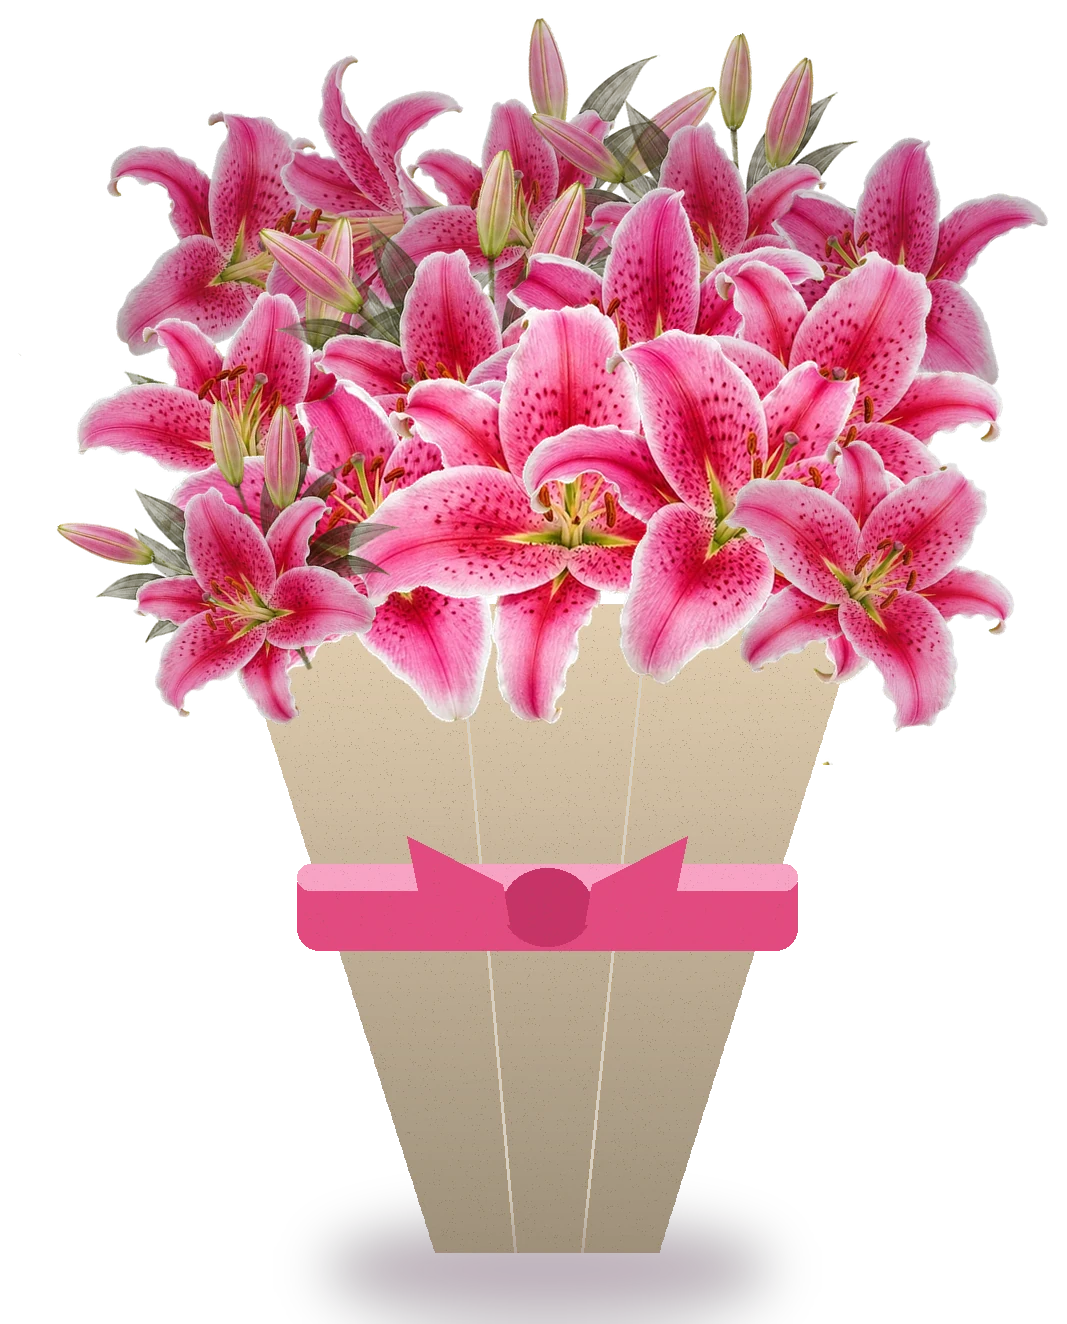
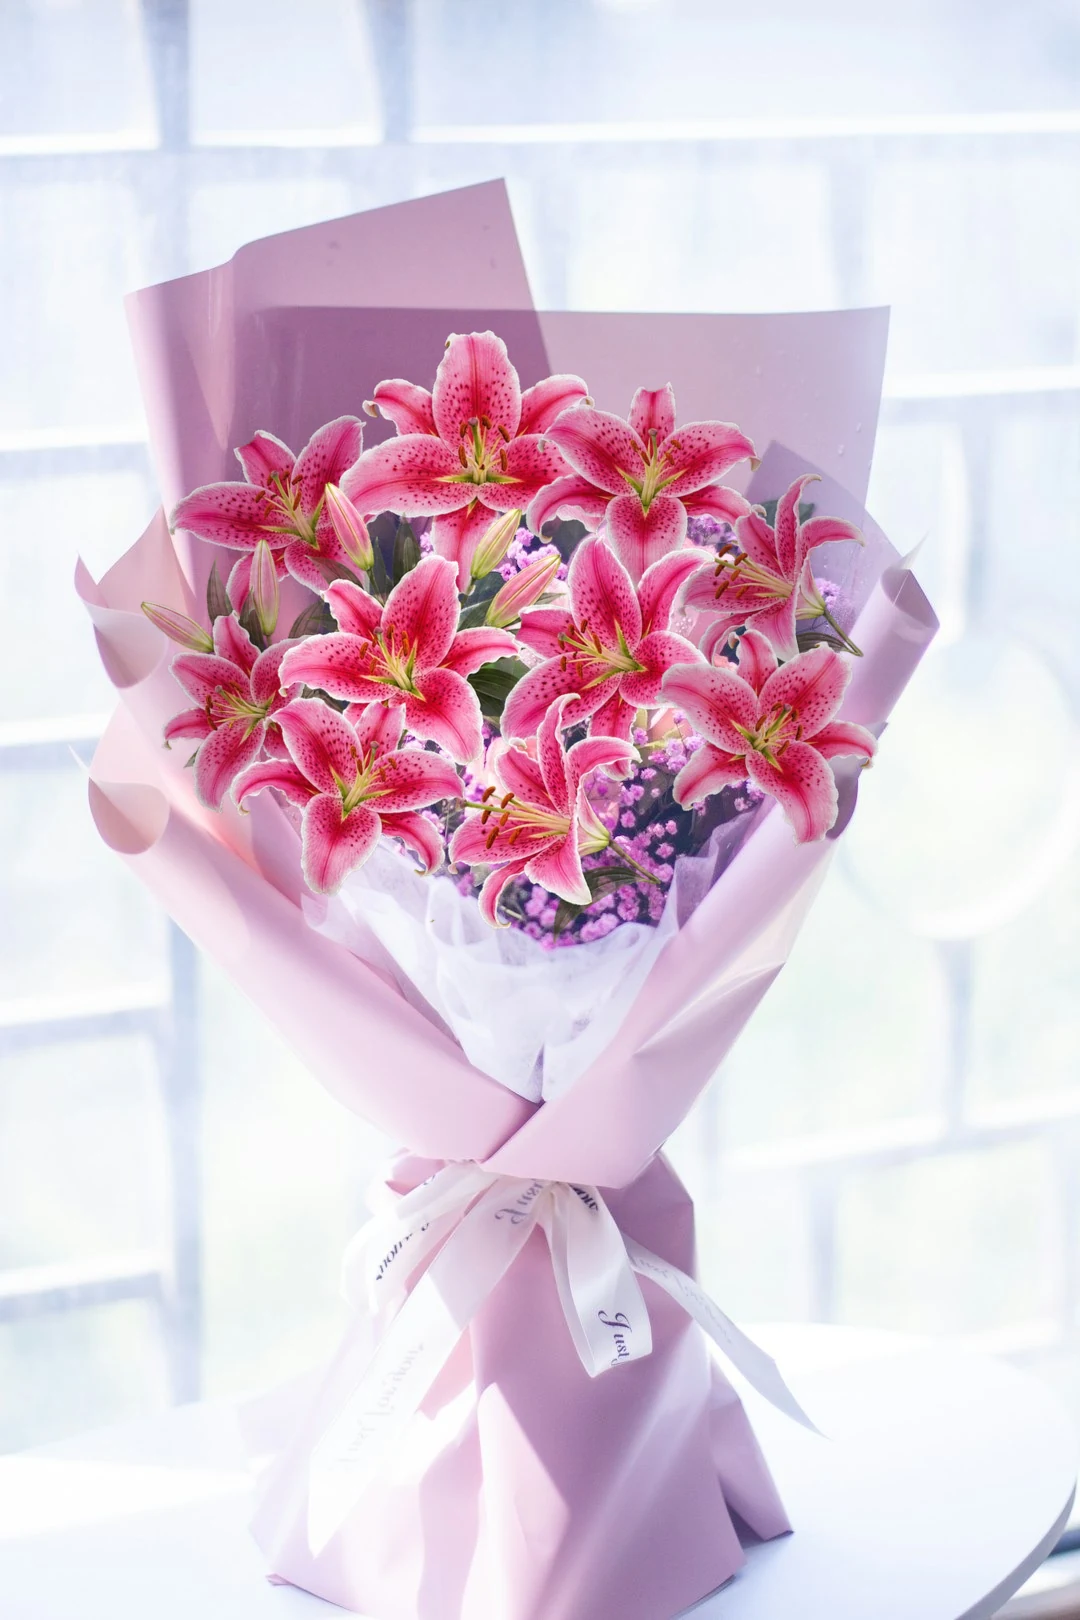
The arrival bouquet is a real bouquet now, not a bunch of flower heads
The previous attempt composed lily heads into a dome over a drawn paper
cone. It was a clump of flowers, not a bouquet: no greenery, no buds, no
front-to-back depth, and a flat vector wrap sitting under photographic
blooms.

Searched Unsplash properly this time and looked at the results rather than
the alt text. It has plenty of lily photographs and essentially no wrapped
lily bouquet - lilies there are close-ups and vases. So the hard part comes
from a real photograph of a florist's bouquet (3h5kKCsa9us by Amelia Cui,
Unsplash Licence) for its paper wrap, ribbon, baby's breath and window
light, and stargazer lily heads are set into the bloom area in place of its
roses, colour-matched to the photo's cool light so they do not read as
pasted on. The wrap and the greenery are real; the flowers are her flower.

Base photo is fetched and cached by the build script rather than committed,
and credited in ATTRIBUTION.md.

diff --git a/miss-you-app/sw.js b/miss-you-app/sw.js
@@ -1,4 +1,4 @@
-const CACHE_NAME = "moonpie-miss-you-v120";
+const CACHE_NAME = "moonpie-miss-you-v121";
 const ASSETS = [
   "./",
   "./index.html",

diff --git a/tools/build_lily_bouquet.py b/tools/build_lily_bouquet.py
@@ -1,163 +1,121 @@
 # -*- coding: utf-8 -*-
 """
-Build the arrival bouquet out of lilies only.
+Build the arrival bouquet: real photograph, lilies set into it.
 
-The "Flowers arrived" screen was showing bouquet-cutout.webp, which is a
-mixed bouquet with roses in it. Her flower is the stargazer lily, so this
-composes a big lily-only bouquet from the six transparent lily cut-outs:
-a wrapped one for the tap-to-untie, and an open one for the reveal.
+Two earlier attempts were wrong. The first used bouquet-cutout.webp, which is
+a mixed arrangement with roses in it, and her flower is the stargazer lily.
+The second composed lily heads into a dome over a drawn paper cone, which
+read as a clump of flower heads rather than a bouquet: no greenery, no buds,
+no varied depth, and a flat vector wrap next to photographic blooms.
+
+Unsplash has plenty of lily photographs and essentially no wrapped lily
+bouquet, so this takes the hard part from a real photograph - an actual
+florist's bouquet with its paper wrap, ribbon, baby's breath and lighting -
+and sets stargazer lily heads into the bloom area where the roses were. The
+wrap, the greenery and the light are real; the flowers are her flower.
+
+Source photo: Unsplash 3h5kKCsa9us by Amelia Cui (Unsplash Licence).
 
 Writes:
-  assets/flowers/bouquet-lilies-wrapped.webp
-  assets/flowers/bouquet-lilies-open.webp
+  assets/flowers/bouquet-lilies-wrapped.webp   (the sealed, tap-to-untie one)
+  assets/flowers/bouquet-lilies-open.webp      (the reveal, blooms only)
 """
-import math, os
-from PIL import Image, ImageDraw, ImageFilter
+import io, os, urllib.request
+from PIL import Image, ImageEnhance, ImageFilter
 
 ROOT = os.path.dirname(os.path.dirname(os.path.abspath(__file__)))
 FLOWERS = os.path.join(ROOT, "miss-you-app", "assets", "flowers")
+CACHE = os.path.join(os.path.dirname(os.path.abspath(__file__)), "_bouquet_base.jpg")
 
-W, H = 1100, 1340
+PHOTO_ID = "3h5kKCsa9us"
+UA = {"User-Agent": "MoonpieApp/1.0 (private gift project)"}
+
+# Where the roses sit in the source photo, and how the lilies are laid over
+# them: (centre x, centre y, size on the long edge, rotation), in pixels of
+# the 1080x1620 original. Sizes vary and a few sit lower and dimmer so the
+# arrangement has a front and a back instead of being one flat layer.
+LILY_PLACEMENT = [
+    (300, 520, 250, -18, 0.20),
+    (470, 462, 272,  14, 0.10),
+    (652, 505, 250,  28, 0.16),
+    (790, 585, 226, -24, 0.26),
+    (248, 676, 240,  34, 0.22),
+    (424, 640, 286,  -8, 0.00),
+    (612, 658, 262,  20, 0.06),
+    (762, 730, 228, -30, 0.20),
+    (352, 812, 244,  10, 0.08),
+    (566, 820, 252, -14, 0.04),
+]
 
 
-def load_lilies():
-    out = []
-    for i in range(1, 7):
-        path = os.path.join(FLOWERS, f"lily-{i}.webp")
-        out.append(Image.open(path).convert("RGBA"))
-    return out
+def base_photo():
+    if os.path.exists(CACHE):
+        return Image.open(CACHE).convert("RGB")
+    key = os.environ.get("UNSPLASH_ACCESS_KEY", "").strip()
+    if not key:
+        raise SystemExit("set UNSPLASH_ACCESS_KEY to fetch the base photograph")
+    import json
+    meta_req = urllib.request.Request(
+        f"https://api.unsplash.com/photos/{PHOTO_ID}",
+        headers={**UA, "Authorization": f"Client-ID {key}", "Accept-Version": "v1"})
+    with urllib.request.urlopen(meta_req, timeout=40) as r:
+        meta = json.load(r)
+    with urllib.request.urlopen(urllib.request.Request(meta["urls"]["regular"], headers=UA), timeout=60) as r:
+        im = Image.open(io.BytesIO(r.read())).convert("RGB")
+    im.save(CACHE, quality=94)
+    # Unsplash asks for a download ping whenever an image is actually used
+    try:
+        urllib.request.urlopen(urllib.request.Request(
+            meta["links"]["download_location"],
+            headers={**UA, "Authorization": f"Client-ID {key}", "Accept-Version": "v1"}), timeout=20).read(1)
+    except Exception:
+        pass
+    return im
 
 
-def place(canvas, im, cx, cy, size, rot, alpha=1.0, darken=0.0):
-    """Drop one bloom at (cx, cy), scaled to `size` on its long edge."""
-    scale = size / max(im.size)
-    w, h = max(1, int(im.width * scale)), max(1, int(im.height * scale))
-    piece = im.resize((w, h), Image.LANCZOS).rotate(rot, resample=Image.BICUBIC, expand=True)
+def lilies():
+    return [Image.open(os.path.join(FLOWERS, f"lily-{i}.webp")).convert("RGBA") for i in range(1, 7)]
 
-    if darken > 0:                      # blooms set further back catch less light
-        shade = Image.new("RGBA", piece.size, (40, 10, 30, 0))
+
+def place(canvas, bloom, cx, cy, size, rot, darken):
+    scale = size / max(bloom.size)
+    w, h = max(1, int(bloom.width * scale)), max(1, int(bloom.height * scale))
+    piece = bloom.resize((w, h), Image.LANCZOS).rotate(rot, resample=Image.BICUBIC, expand=True)
+    if darken > 0:                     # blooms further back catch less light
+        shade = Image.new("RGBA", piece.size, (40, 12, 34, 0))
         shade.putalpha(piece.getchannel("A").point(lambda v: int(v * darken)))
         piece = Image.alpha_composite(piece, shade)
-
-    if alpha < 1.0:
-        piece.putalpha(piece.getchannel("A").point(lambda v: int(v * alpha)))
-
     canvas.alpha_composite(piece, (int(cx - piece.width / 2), int(cy - piece.height / 2)))
 
 
-def build_blooms():
-    """A dome of lilies: a dim back row, a middle row, then big front blooms."""
-    lil = load_lilies()
-    canvas = Image.new("RGBA", (W, H), (0, 0, 0, 0))
-
-    # back row - smaller, pushed back, slightly shaded so the dome has depth
-    back = [(230, 300), (400, 232), (560, 210), (720, 236), (884, 306)]
-    for i, (x, y) in enumerate(back):
-        place(canvas, lil[(i + 2) % 6], x, y, 330, (i * 37) % 60 - 30, 0.96, darken=0.22)
-
-    # middle row
-    mid = [(300, 430), (470, 378), (640, 380), (810, 436)]
-    for i, (x, y) in enumerate(mid):
-        place(canvas, lil[(i + 4) % 6], x, y, 380, (i * 53) % 70 - 35, 1.0, darken=0.08)
-
-    # front row - the biggest, fully lit
-    front = [(390, 560), (560, 528), (730, 562)]
-    for i, (x, y) in enumerate(front):
-        place(canvas, lil[i % 6], x, y, 430, (i * 41) % 56 - 28)
-
-    # a couple tucked low at the sides so the silhouette is not a flat arc
-    place(canvas, lil[5], 250, 585, 300, 38, 0.97, darken=0.12)
-    place(canvas, lil[1], 866, 590, 300, -34, 0.97, darken=0.12)
-    return canvas
-
-
-def draw_wrap(canvas):
-    """Kraft paper cone with a ribbon, drawn under the blooms."""
-    wrap = Image.new("RGBA", (W, H), (0, 0, 0, 0))
-    d = ImageDraw.Draw(wrap)
-
-    top_l, top_r = (232, 620), (868, 620)
-    bot_l, bot_r = (438, 1268), (662, 1268)
-
-    # the cone, banded so it reads as folded paper rather than a flat shape
-    steps = 150
-    for s in range(steps):
-        t0, t1 = s / steps, (s + 1) / steps
-        lx0 = top_l[0] + (bot_l[0] - top_l[0]) * t0
-        rx0 = top_r[0] + (bot_r[0] - top_r[0]) * t0
-        y0 = top_l[1] + (bot_l[1] - top_l[1]) * t0
-        y1 = top_l[1] + (bot_l[1] - top_l[1]) * t1
-        lx1 = top_l[0] + (bot_l[0] - top_l[0]) * t1
-        rx1 = top_r[0] + (bot_r[0] - top_r[0]) * t1
-        shade = 1 - t0 * 0.30
-        col = (int(226 * shade), int(206 * shade), int(176 * shade), 255)
-        d.polygon([(lx0, y0), (rx0, y0), (rx1, y1), (lx1, y1)], fill=col)
-
-    # two creases down the cone
-    for frac in (0.36, 0.66):
-        x_top = top_l[0] + (top_r[0] - top_l[0]) * frac
-        x_bot = bot_l[0] + (bot_r[0] - bot_l[0]) * frac
-        d.line([(x_top, top_l[1]), (x_bot, bot_l[1])], fill=(150, 120, 70, 90), width=3)
-
-    # ribbon
-    d.rounded_rectangle([300, 880, 800, 966], radius=22, fill=(226, 74, 128, 255))
-    d.rounded_rectangle([300, 880, 800, 906], radius=14, fill=(245, 130, 175, 190))
-    # the knot and two loops
-    d.ellipse([505, 884, 595, 962], fill=(198, 52, 104, 255))
-    d.polygon([(505, 900), (410, 852), (430, 950), (512, 940)], fill=(226, 74, 128, 255))
-    d.polygon([(595, 900), (690, 852), (670, 950), (588, 940)], fill=(226, 74, 128, 255))
-
-    # grain, so the paper is stock rather than a flat fill
-    import random
-    random.seed(7)
-    grain = Image.new("L", wrap.size, 0)
-    gd = ImageDraw.Draw(grain)
-    for _ in range(26000):
-        x = random.randint(0, wrap.width - 1)
-        y = random.randint(620, wrap.height - 1)
-        gd.point((x, y), fill=random.randint(0, 26))
-    wrap_rgba = wrap.split()
-    darkened = Image.composite(
-        Image.new("RGBA", wrap.size, (120, 96, 60, 255)), wrap,
-        grain.point(lambda v: min(255, v * 4)))
-    darkened.putalpha(wrap_rgba[3])
-    canvas.alpha_composite(darkened)
-    return canvas
-
-
-def soft_shadow(im):
-    """A shadow under the whole thing so it sits on something."""
-    shadow = Image.new("RGBA", im.size, (0, 0, 0, 0))
-    d = ImageDraw.Draw(shadow)
-    d.ellipse([330, 1240, 770, 1330], fill=(70, 30, 60, 90))
-    shadow = shadow.filter(ImageFilter.GaussianBlur(26))
-    shadow.alpha_composite(im)
-    return shadow
-
-
 def main():
-    # open: just the flowers, for the reveal
-    blooms = build_blooms()
-    box = blooms.getbbox()          # crop to what was actually drawn
-    pad = 18
-    open_bq = blooms.crop((max(0, box[0] - pad), max(0, box[1] - pad),
-                           min(W, box[2] + pad), min(H, box[3] + pad)))
+    photo = base_photo()
+    if photo.size != (1080, 1620):
+        photo = photo.resize((1080, 1620), Image.LANCZOS)
+
+    lil = lilies()
+    layer = Image.new("RGBA", photo.size, (0, 0, 0, 0))
+    for i, (cx, cy, size, rot, darken) in enumerate(LILY_PLACEMENT):
+        place(layer, lil[i % len(lil)], cx, cy, size, rot, darken)
+
+    # match the photograph's soft, cool window light rather than dropping in
+    # hard-lit cut-outs
+    layer = ImageEnhance.Brightness(layer).enhance(1.04)
+    layer = ImageEnhance.Color(layer).enhance(0.94)
+    layer = layer.filter(ImageFilter.GaussianBlur(0.4))
+
+    wrapped = photo.convert("RGBA")
+    wrapped.alpha_composite(layer)
+    wrapped.convert("RGB").save(
+        os.path.join(FLOWERS, "bouquet-lilies-wrapped.webp"), "WEBP", quality=88, method=6)
+
+    # the reveal: the bloom half of the same bouquet, closer in
+    open_bq = wrapped.crop((120, 330, 980, 1000)).convert("RGB")
     open_bq.save(os.path.join(FLOWERS, "bouquet-lilies-open.webp"), "WEBP", quality=90, method=6)
 
-    # wrapped: cone and ribbon first, blooms on top
-    wrapped = Image.new("RGBA", (W, H), (0, 0, 0, 0))
-    draw_wrap(wrapped)
-    wrapped.alpha_composite(blooms)
-    wrapped = soft_shadow(wrapped)
-    wbox = wrapped.getbbox()
-    wrapped = wrapped.crop((max(0, wbox[0] - pad), max(0, wbox[1] - pad),
-                            min(W, wbox[2] + pad), min(H, wbox[3] + pad)))
-    wrapped.save(os.path.join(FLOWERS, "bouquet-lilies-wrapped.webp"), "WEBP", quality=90, method=6)
-
-    for name in ("bouquet-lilies-open.webp", "bouquet-lilies-wrapped.webp"):
-        im = Image.open(os.path.join(FLOWERS, name))
-        print(f"{name}: {im.size} {im.mode} "
-              f"{os.path.getsize(os.path.join(FLOWERS, name)) // 1024}kb")
+    for name in ("bouquet-lilies-wrapped.webp", "bouquet-lilies-open.webp"):
+        path = os.path.join(FLOWERS, name)
+        print(f"{name}: {Image.open(path).size} {os.path.getsize(path)//1024}kb")
 
 
 if __name__ == "__main__":

diff --git a/miss-you-app/assets/flowers/ATTRIBUTION.md b/miss-you-app/assets/flowers/ATTRIBUTION.md
@@ -60,3 +60,16 @@ from Wikimedia Commons - each is traceable back to its own file history at
 | tulip-icon.svg | Tulpe_tultip.svg | CC0 |
 | orchid-icon.svg | Orchid.svg | CC0 |
 | cherry-blossom-icon.svg | Cherry_blossom.svg | CC0 |
+
+## The arrival bouquet
+
+`bouquet-lilies-wrapped.webp` and `bouquet-lilies-open.webp` are built by
+`tools/build_lily_bouquet.py`.
+
+The base is Unsplash photo `3h5kKCsa9us` by **Amelia Cui** (Unsplash Licence):
+a real florist's bouquet, for its paper wrap, ribbon, baby's breath and window
+light. Stargazer lily heads (from the `lily-*.webp` cut-outs above) are set
+into the bloom area in place of the roses, because the lily is her flower.
+
+Unsplash has plenty of lily photographs and essentially no wrapped lily
+bouquet, which is why this is a composite rather than a single photo.
